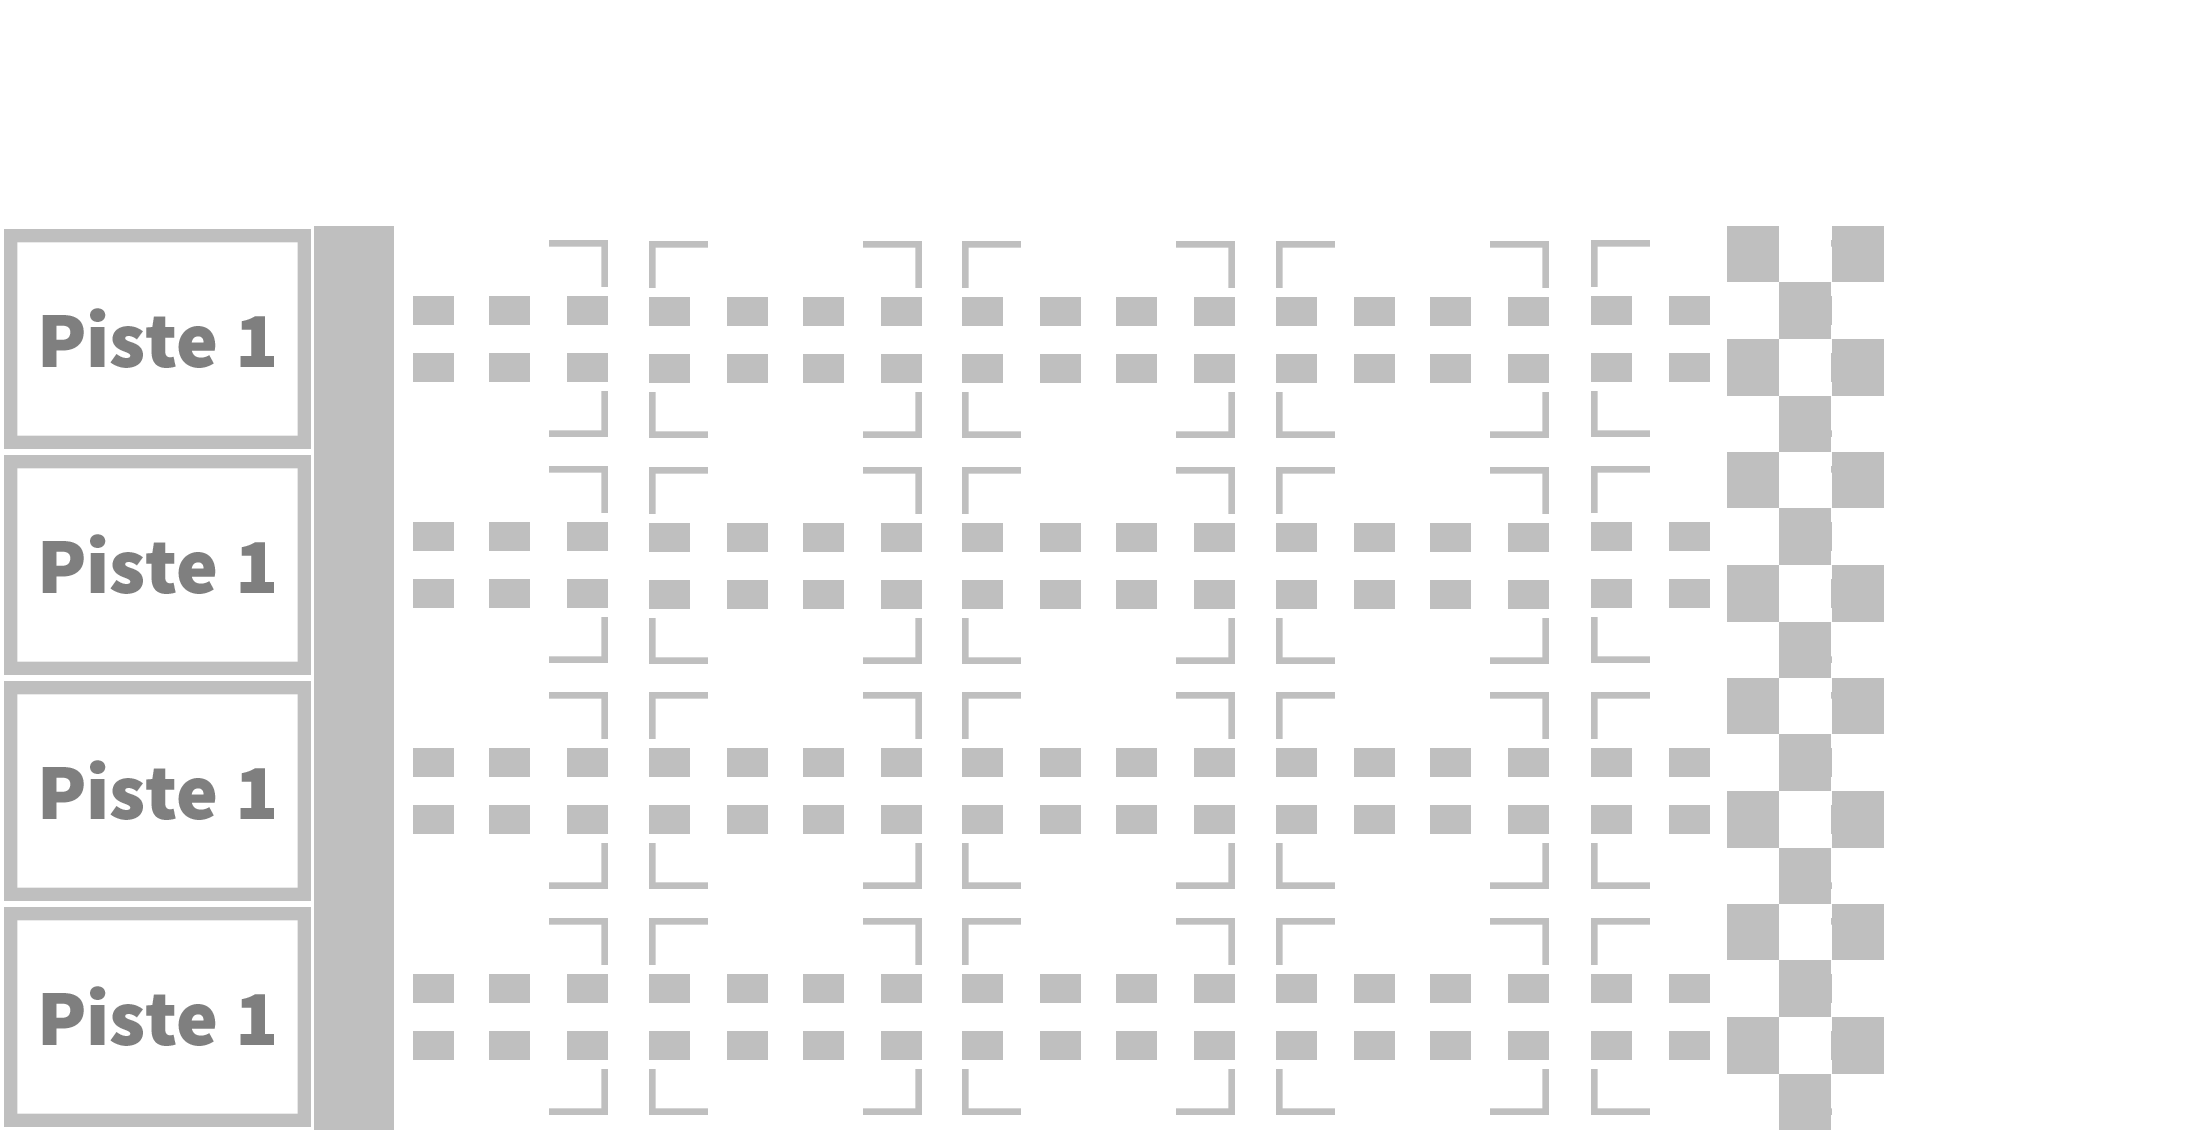
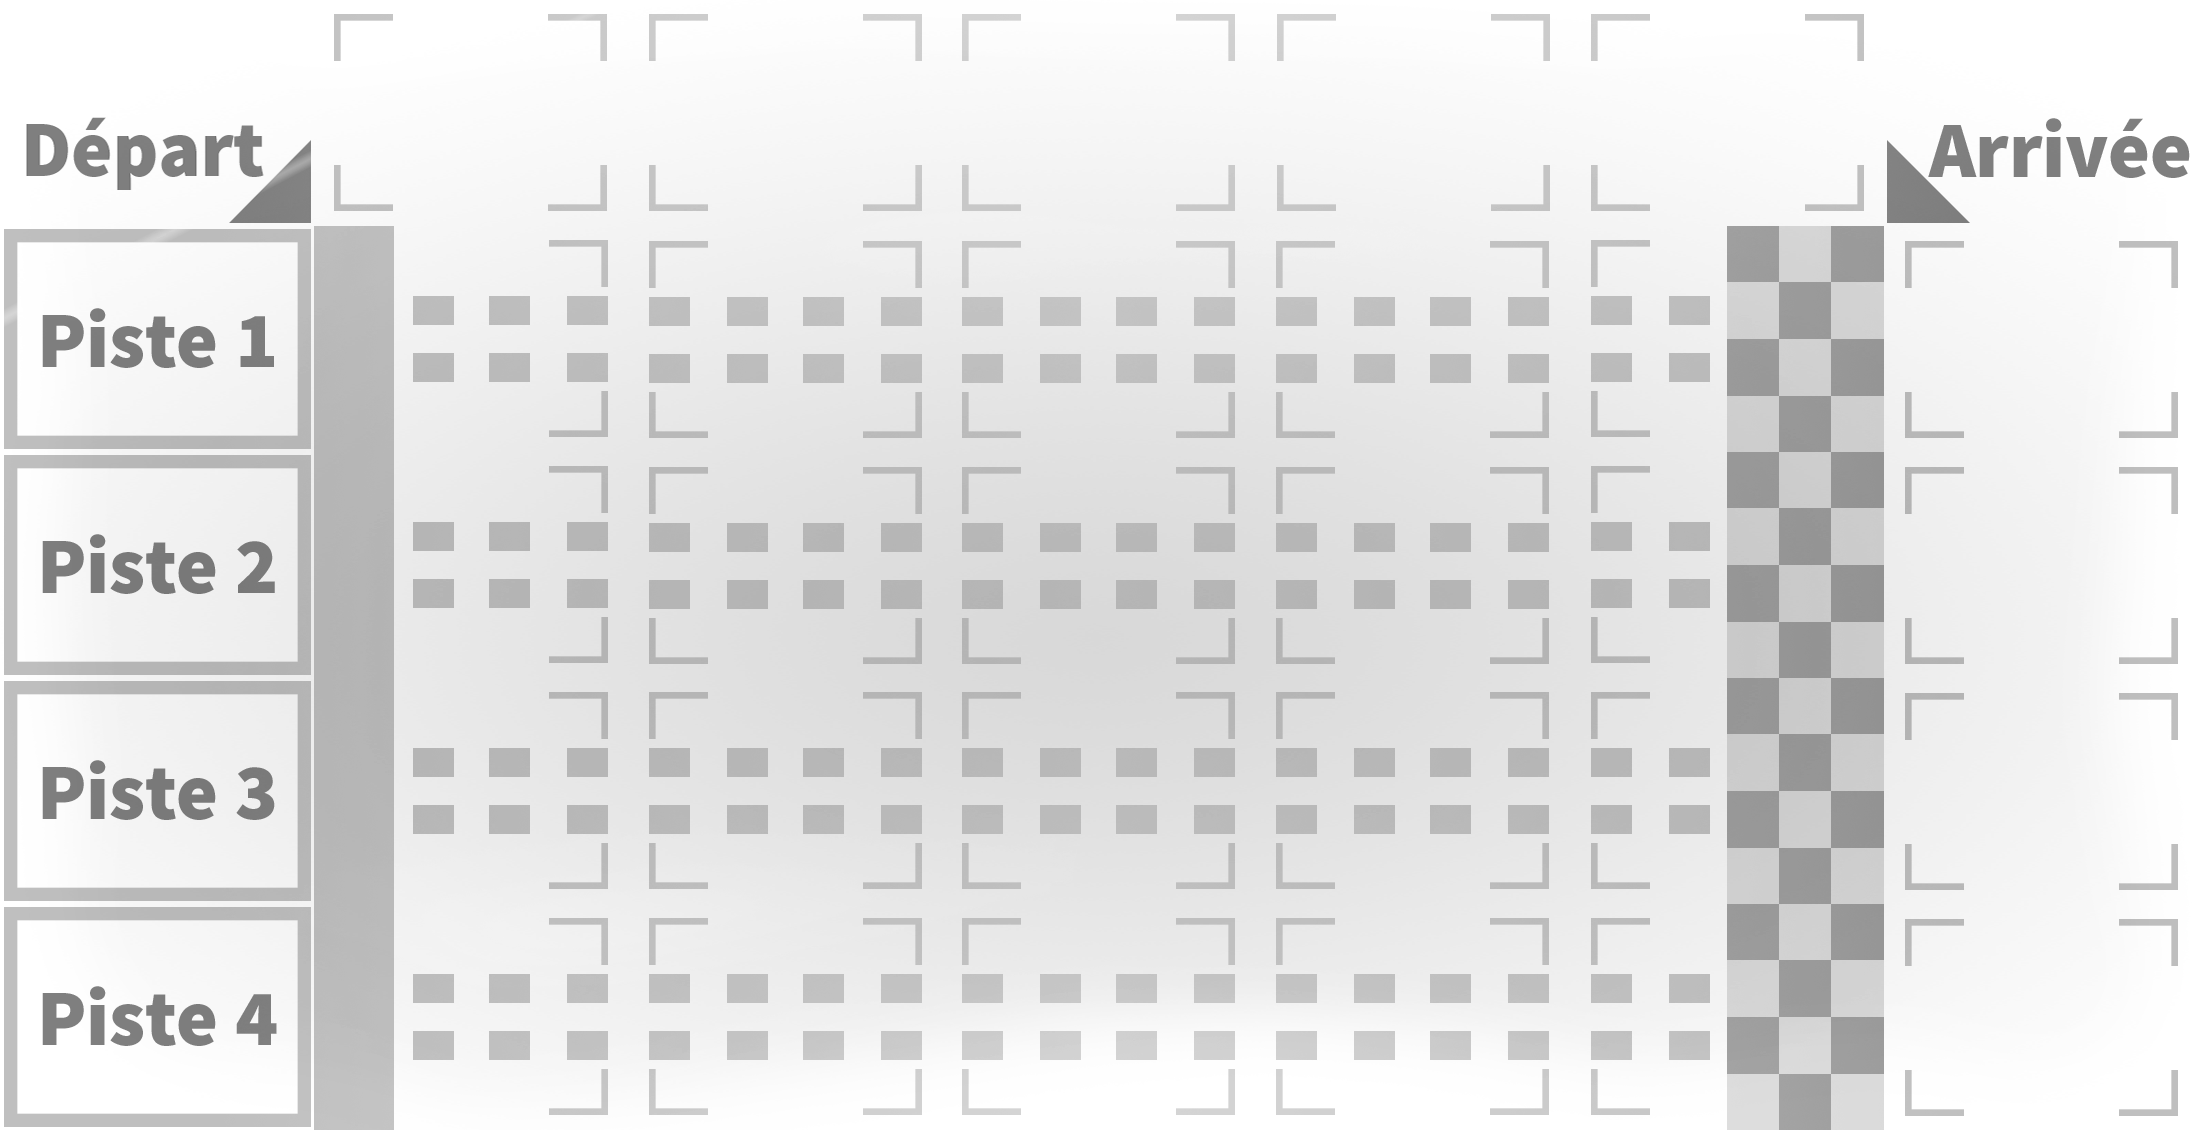
updated images & textures

diff --git a/style.css b/style.css
@@ -1,5 +1,7 @@
 body {
 	background: #009933;
+    background-image: url("img/texture.png");
+    background-repeat: repeat;
 	font-family: "Source Sans Pro";
 	overflow-x: hidden;
 	margin-left: auto;
